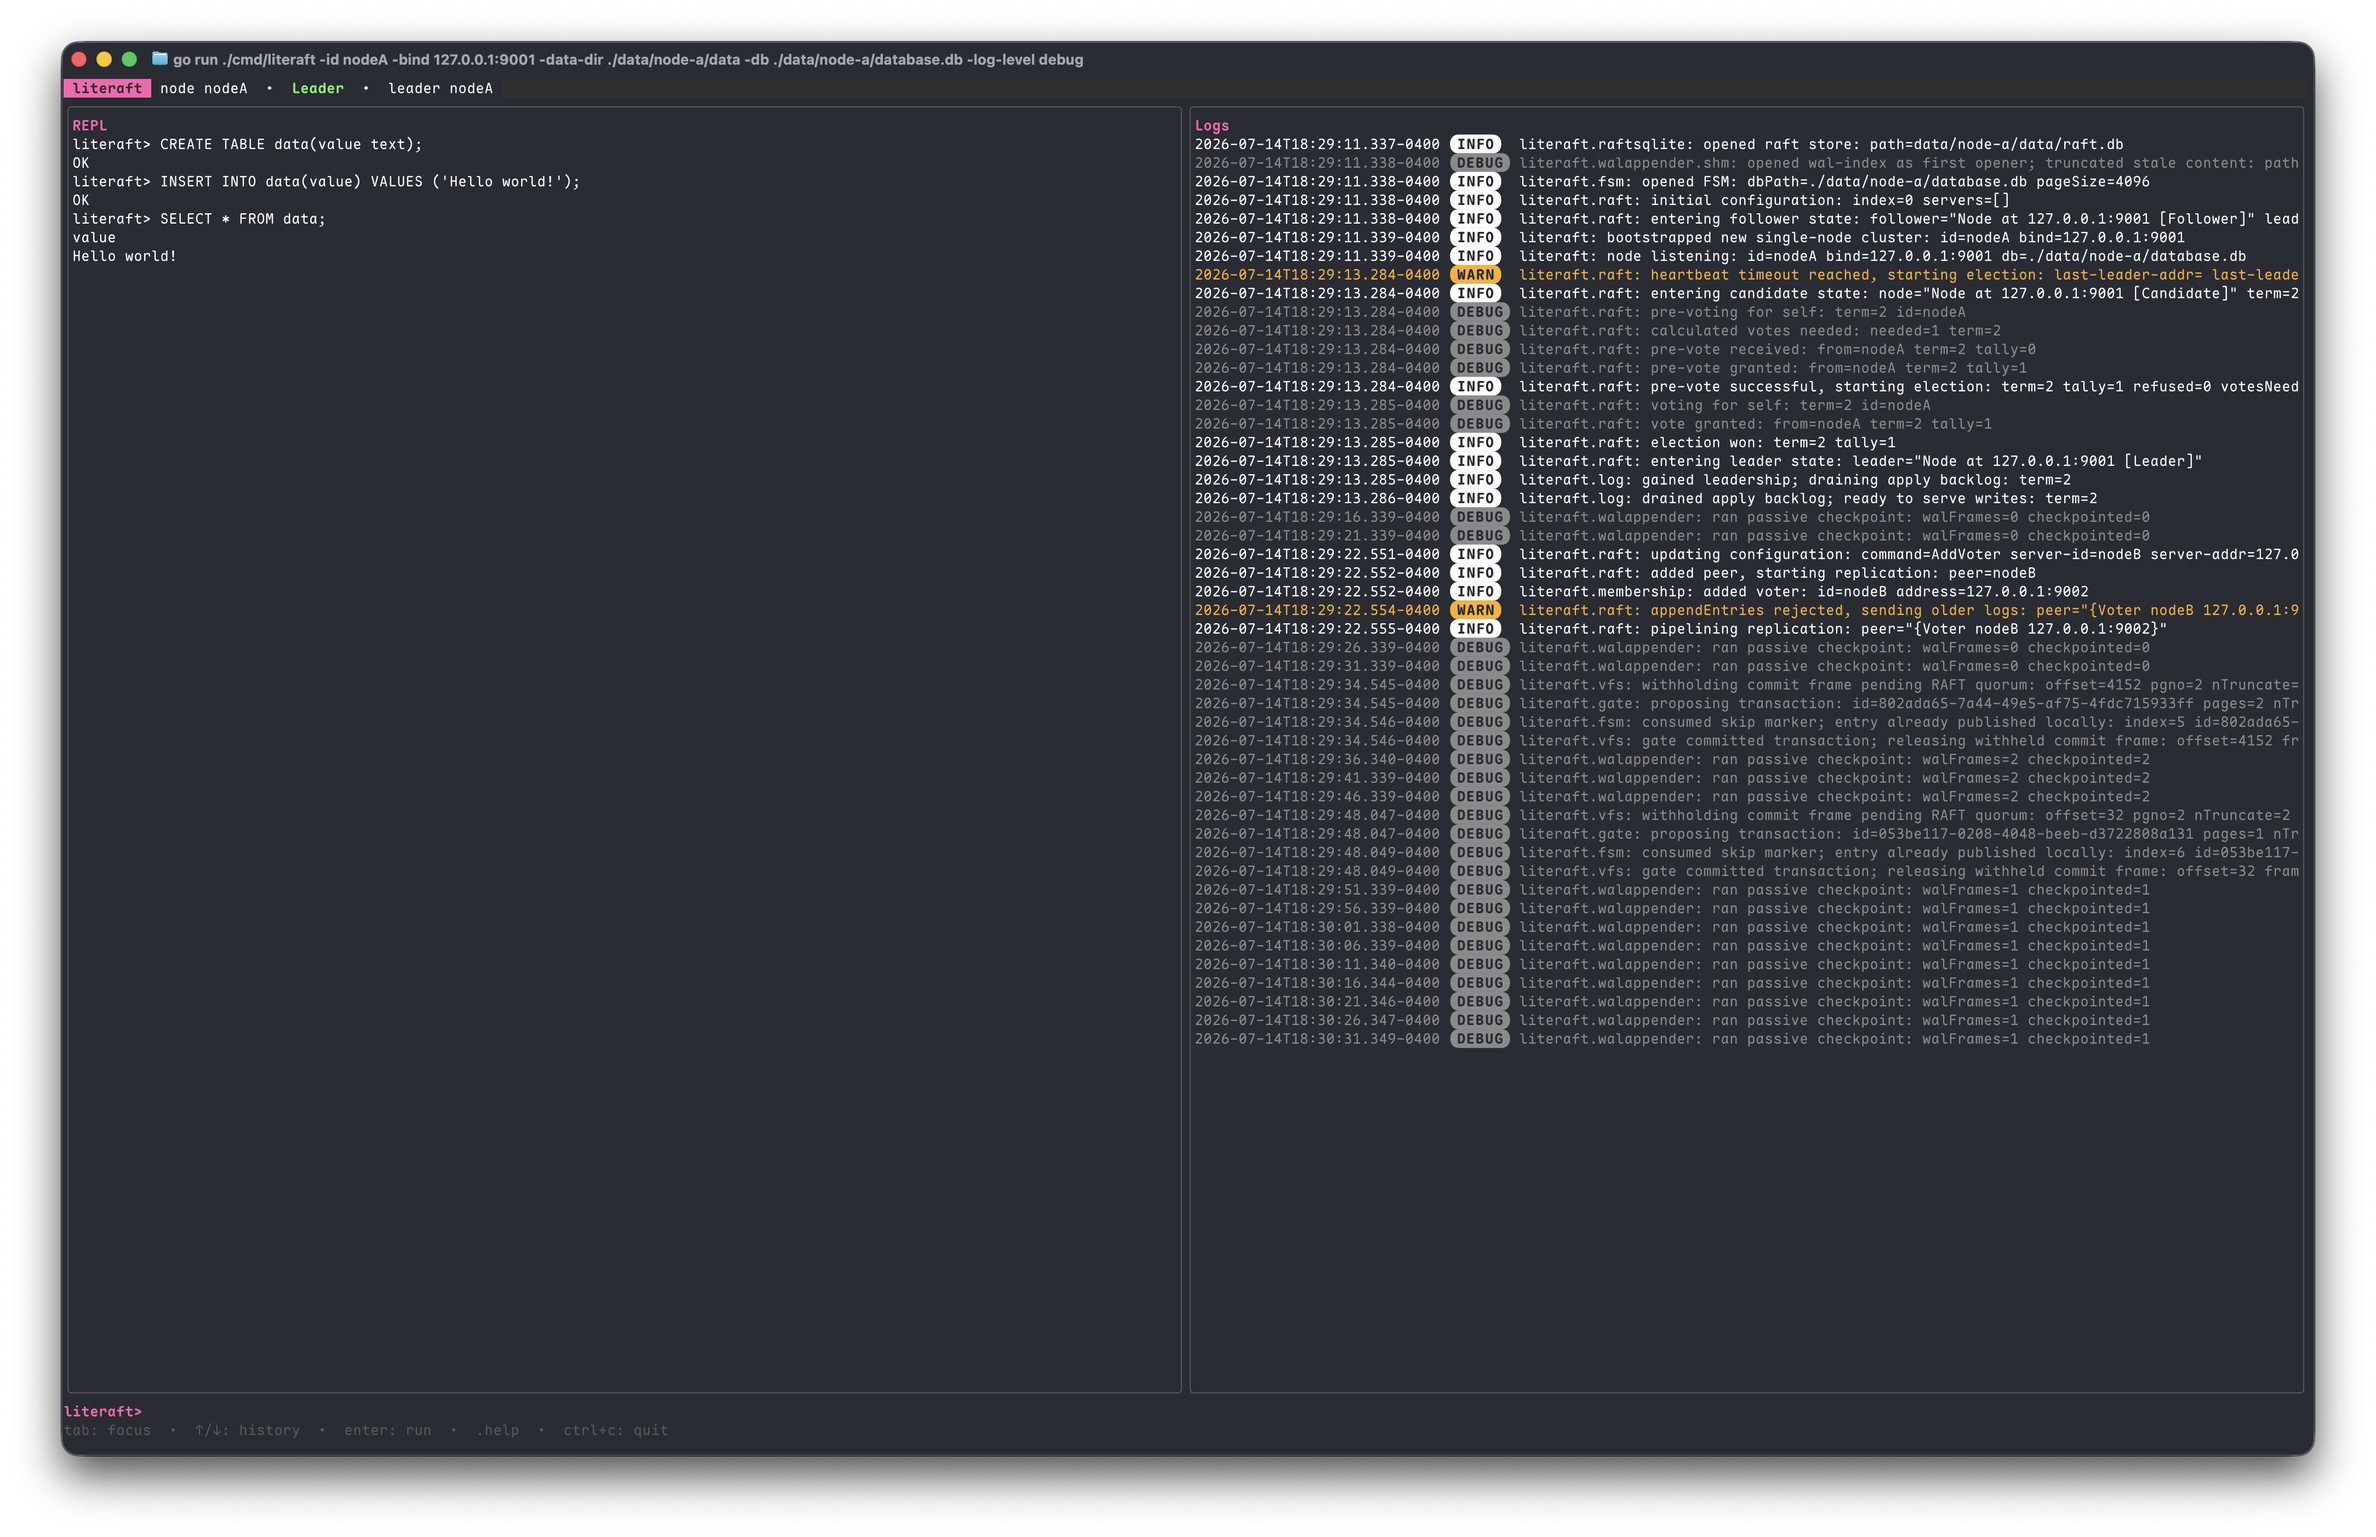
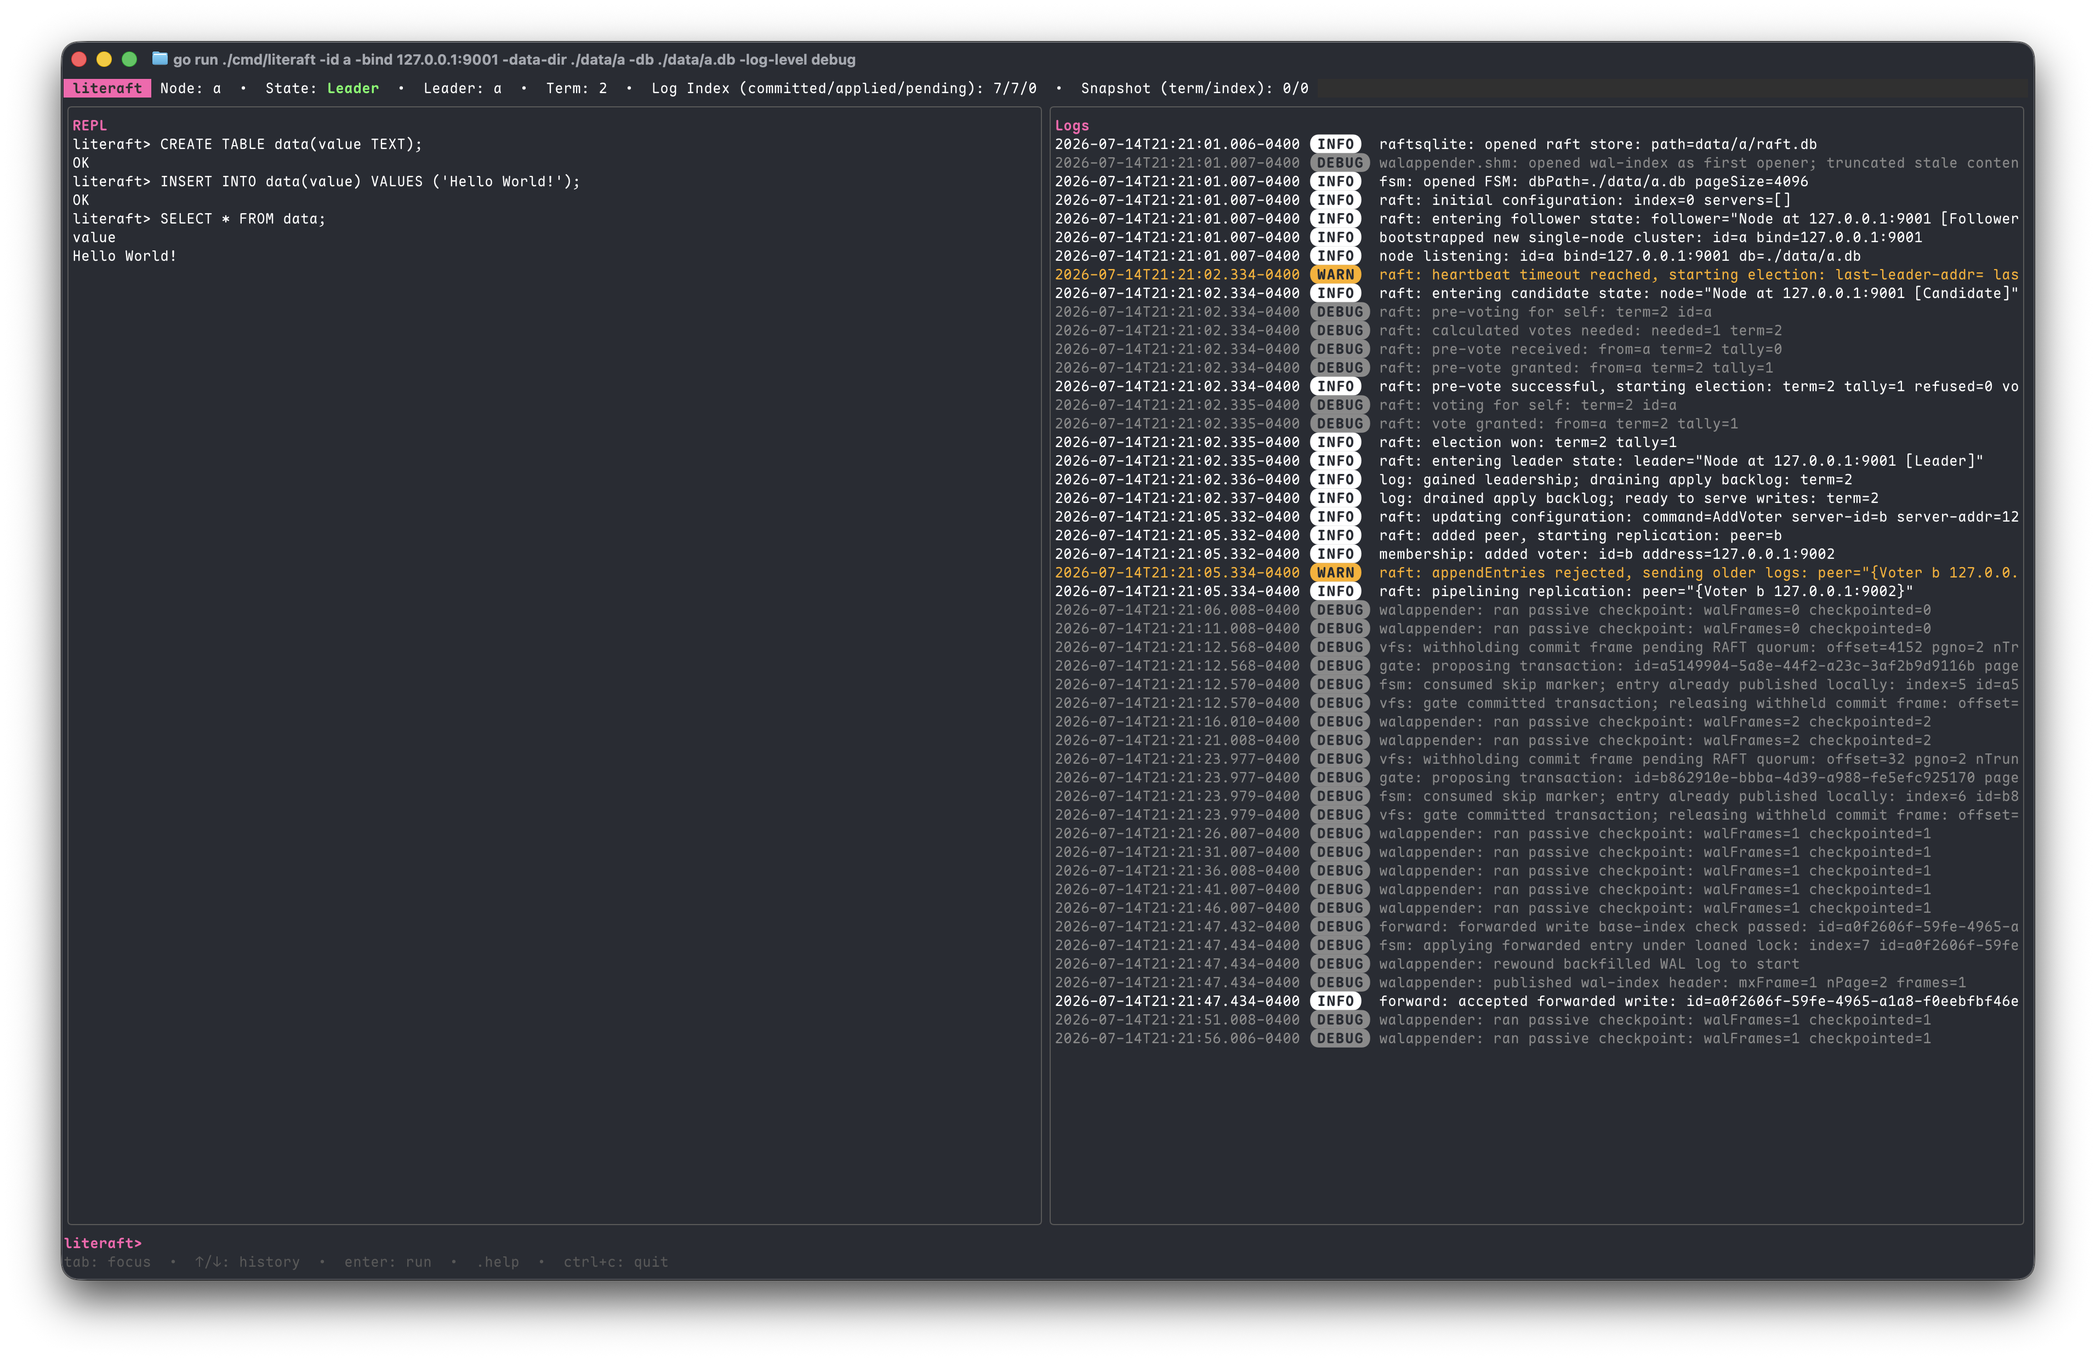
Handle .servers errors and add TUI .clear command
Use a tabwriter for aligned .servers output and surface
GetConfiguration errors instead of printing stale data. Also add
.clear to the TUI command handler/help to reset the REPL transcript.

Changed region(s): [[0.0, 0.0, 0.9958, 0.961]]

diff --git a/cmd/literaft/repl.go b/cmd/literaft/repl.go
@@ -6,6 +6,7 @@ import (
 	"fmt"
 	"io"
 	"strings"
+	"text/tabwriter"
 	"time"
 
 	"github.com/hashicorp/raft"
@@ -87,12 +88,20 @@ func runREPL(r *raft.Raft, db *sql.DB, in io.Reader, out io.Writer) bool {
 // runServers implements the REPL's ".servers" command, which prints the current Raft configuration.
 // It is a read-only operation and can be run on any node.
 func runServers(r *raft.Raft, out io.Writer) {
-	servers := r.GetConfiguration().Configuration().Servers
-	fmt.Fprintln(out, "ID\tAddress\tRole")
-	for _, s := range servers {
-		fmt.Fprintf(out, "%s\t%s\t%s\n", s.ID, s.Address, s.Suffrage.String())
+	conf := r.GetConfiguration()
+	if conf.Error() != nil {
+		fmt.Fprintln(out, "error:", conf.Error())
+		return
 	}
-	fmt.Fprintln(out, "OK")
+
+	servers := conf.Configuration().Servers
+
+	w := tabwriter.NewWriter(out, 0, 0, 2, ' ', 0)
+	fmt.Fprintln(w, "ID\tAddress\tRole")
+	for _, s := range servers {
+		fmt.Fprintf(w, "%s\t%s\t%s\n", s.ID, s.Address, s.Suffrage.String())
+	}
+	w.Flush()
 }
 
 // runAddVoter implements the REPL's ".addvoter <id> <address>" command. It

diff --git a/cmd/literaft/tui.go b/cmd/literaft/tui.go
@@ -72,6 +72,7 @@ const tuiHelp = `commands:
   .addvoter <id> <addr>  add a voter to the cluster
   .removevoter <id>      remove a voter from the cluster
   .help                  show this help
+  .clear 			     clear the REPL transcript
   .exit / .quit          shut this node down and exit
 
 keys:
@@ -335,6 +336,10 @@ func (m *tuiModel) processLine(line string) tea.Cmd {
 		case trimmed == ".exit" || trimmed == ".quit":
 			m.quitting = true
 			return tea.Quit
+		case trimmed == ".clear":
+			m.transcript = nil
+			m.syncViewport(&m.repl, m.transcript)
+			return nil
 		case trimmed == ".help":
 			m.appendTranscript(tuiHelp)
 			return nil
